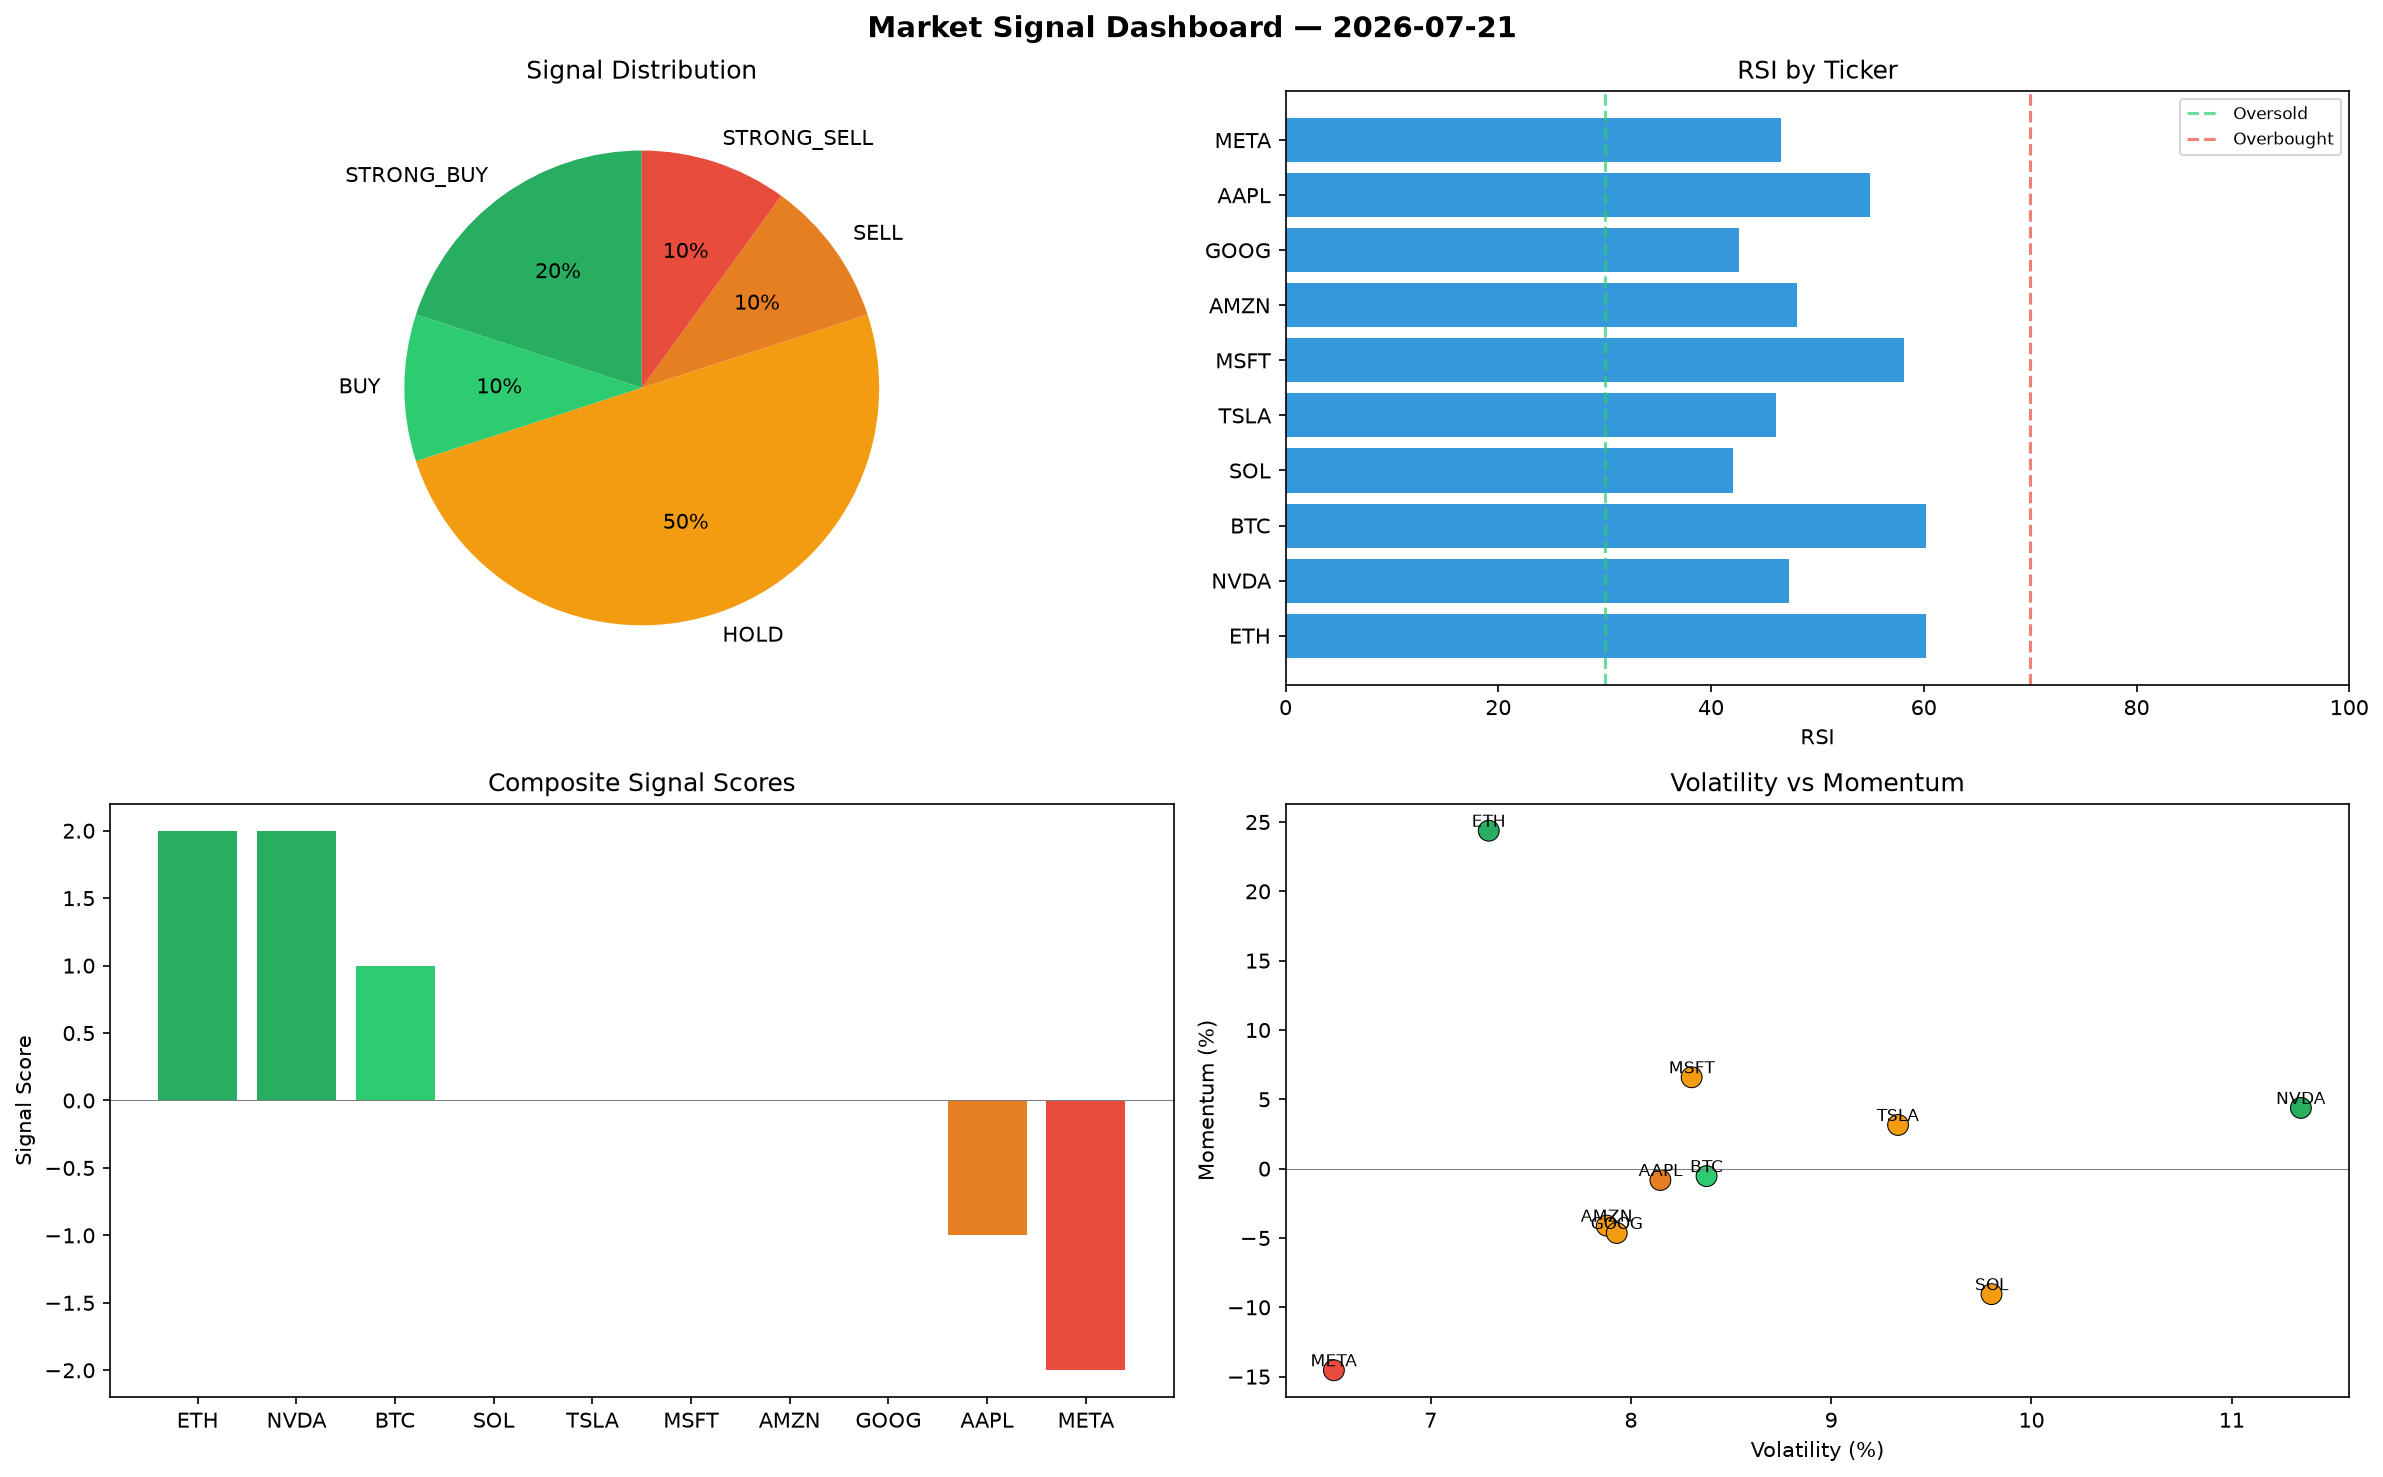
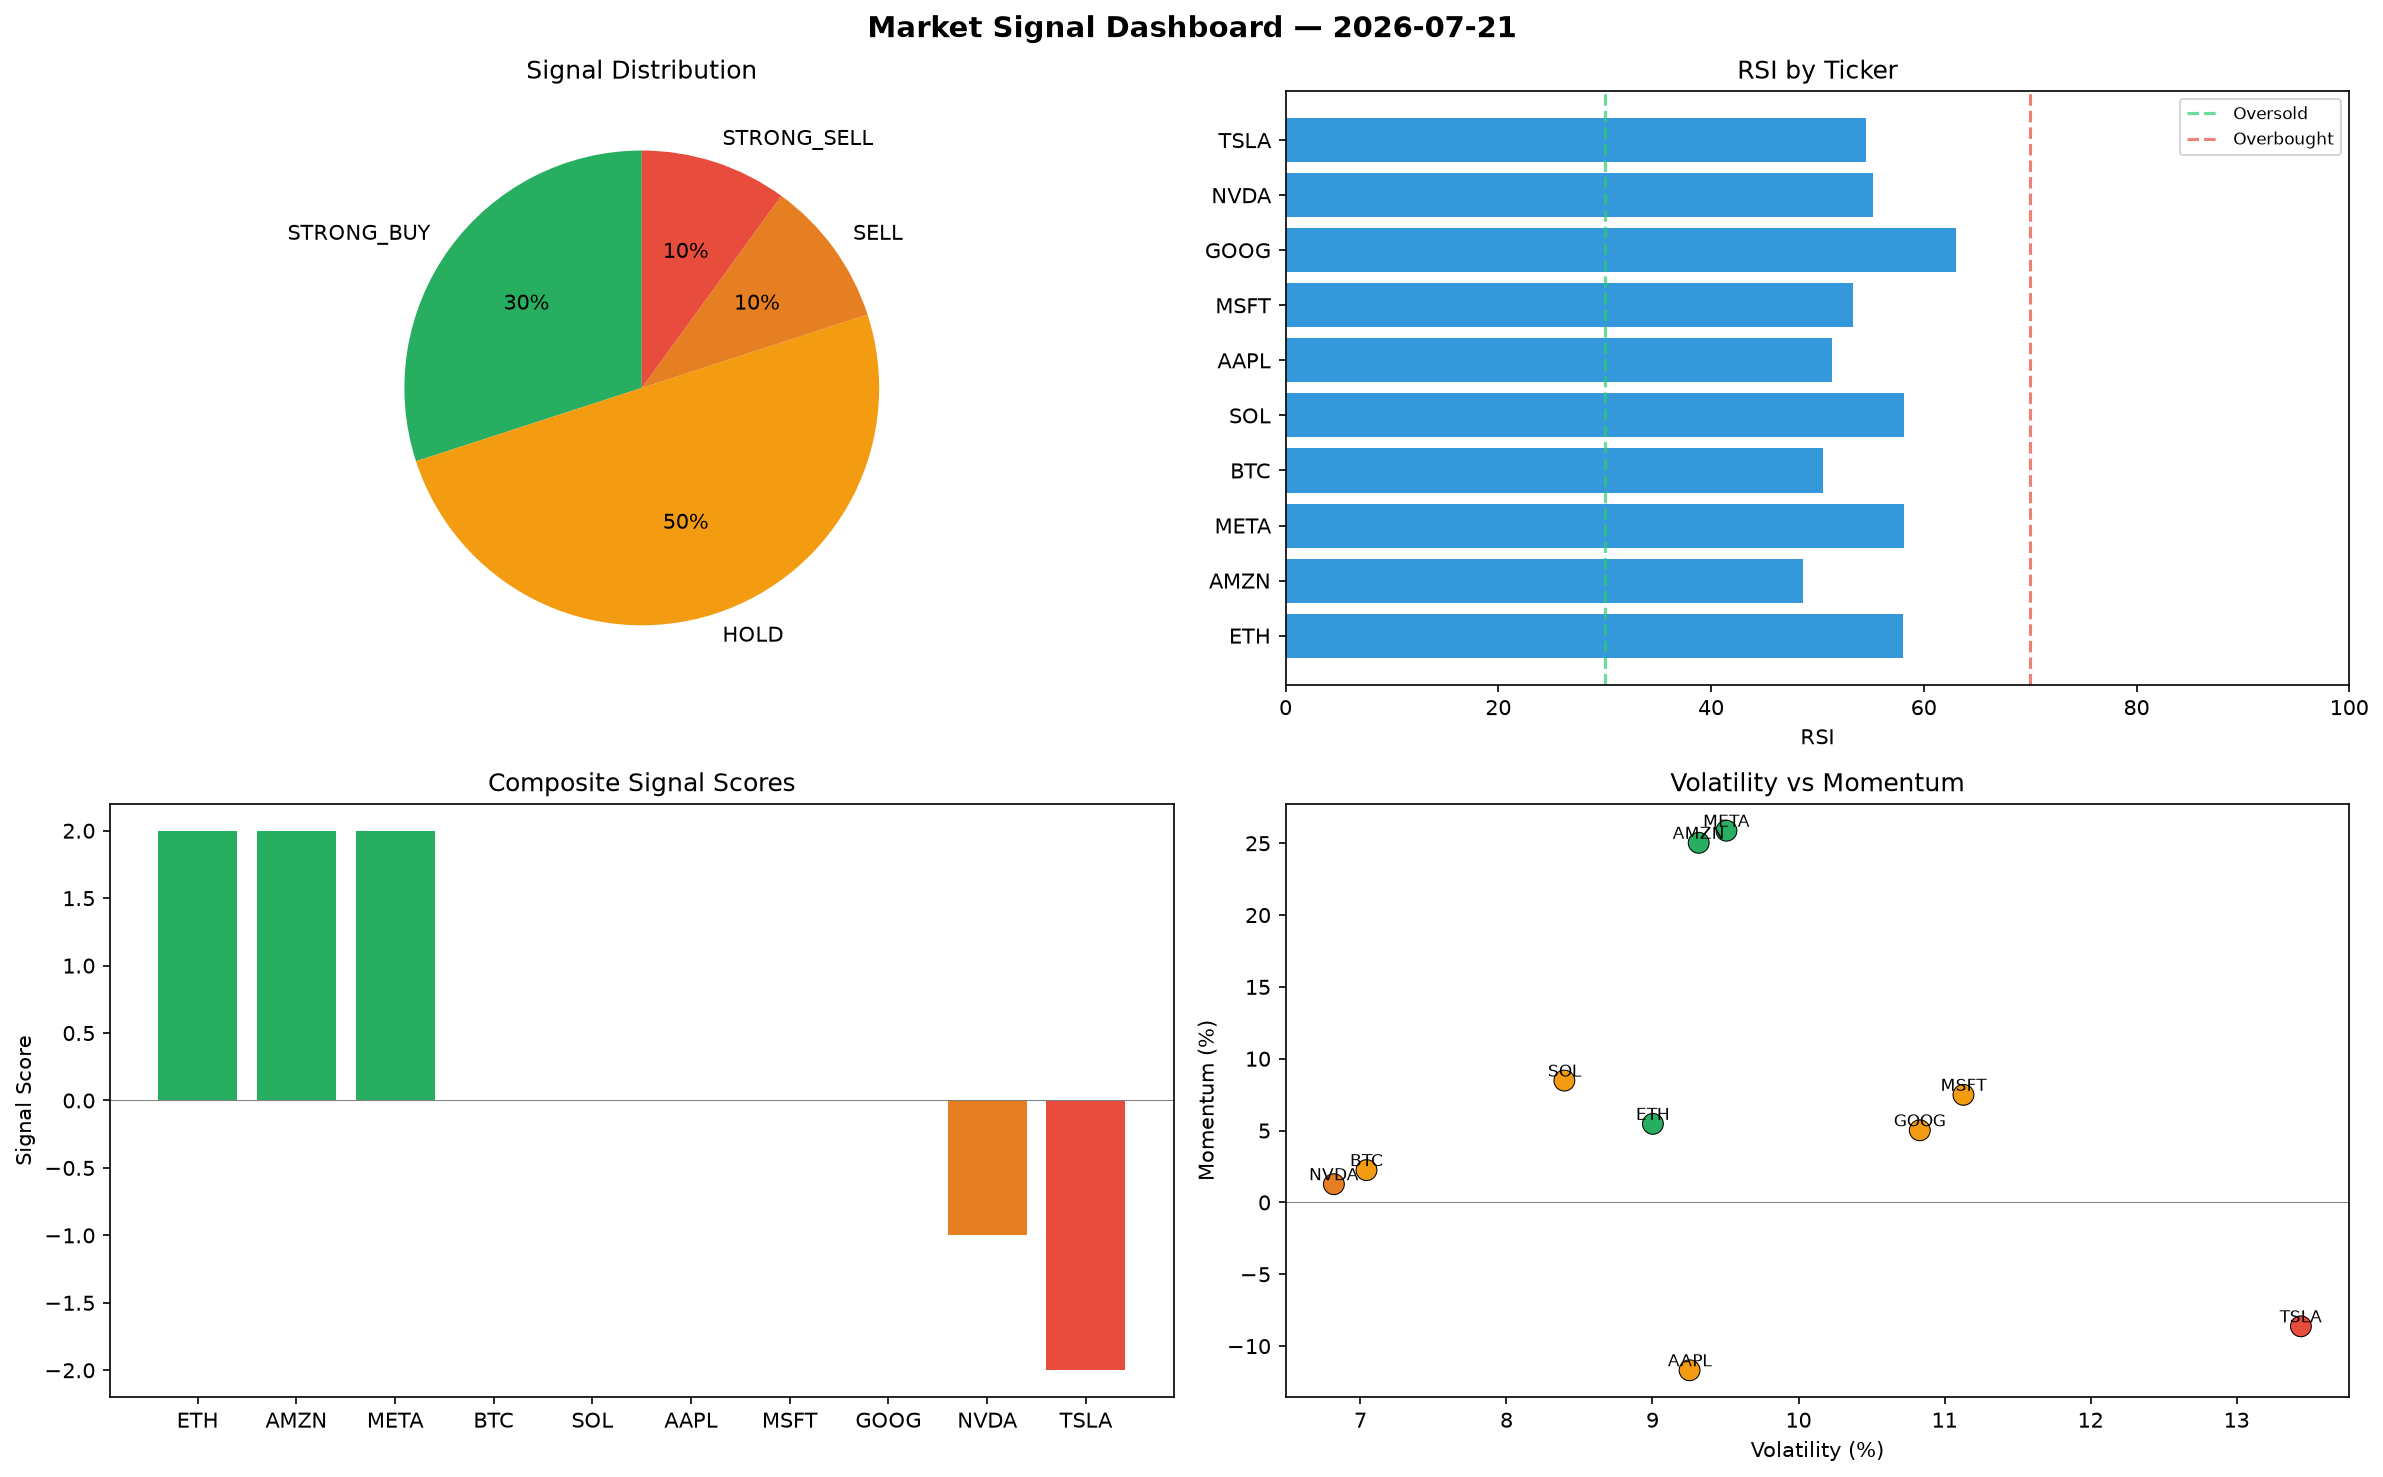
automated-bots: market signals 2026-07-21T21:37

diff --git a/logs/2026-07-21.md b/logs/2026-07-21.md
@@ -1,6 +1,6 @@
 # Market Signal Report — 2026-07-21
 
-**Run ID:** `670987f02e` | **Buy:** 3 | **Sell:** 2 | **Hold:** 5
+**Run ID:** `ee29159b6a` | **Buy:** 3 | **Sell:** 2 | **Hold:** 5
 
 ![Dashboard](2026-07-21_dashboard.png)
 
@@ -8,28 +8,28 @@
 
 | Ticker | Price | Signal | Score | RSI | Momentum | Confidence |
 |--------|-------|--------|-------|-----|----------|------------|
-| ETH | $941.12 | **STRONG_BUY** | 2 | 60.24 | 0.2437 | 0.5 |
-| NVDA | $3770.18 | **STRONG_BUY** | 2 | 47.35 | 0.0438 | 0.5 |
-| BTC | $3714.16 | **BUY** | 1 | 60.2 | -0.0054 | 0.25 |
-| SOL | $3133.28 | **HOLD** | 0 | 42.09 | -0.0905 | 0.0 |
-| TSLA | $833.46 | **HOLD** | 0 | 46.1 | 0.0315 | 0.0 |
-| MSFT | $2854.79 | **HOLD** | 0 | 58.13 | 0.0659 | 0.0 |
-| AMZN | $1441.85 | **HOLD** | 0 | 48.08 | -0.0411 | 0.0 |
-| GOOG | $2984.9 | **HOLD** | 0 | 42.64 | -0.0464 | 0.0 |
-| AAPL | $3370.33 | **SELL** | -1 | 54.96 | -0.0082 | 0.25 |
-| META | $2703.16 | **STRONG_SELL** | -2 | 46.59 | -0.1454 | 0.5 |
+| ETH | $2638.4 | **STRONG_BUY** | 2 | 58.06 | 0.0547 | 0.5 |
+| AMZN | $2374.41 | **STRONG_BUY** | 2 | 48.65 | 0.2503 | 0.5 |
+| META | $1835.83 | **STRONG_BUY** | 2 | 58.15 | 0.2587 | 0.5 |
+| BTC | $2476.84 | **HOLD** | 0 | 50.51 | 0.0225 | 0.0 |
+| SOL | $31.61 | **HOLD** | 0 | 58.16 | 0.0848 | 0.0 |
+| AAPL | $3035.77 | **HOLD** | 0 | 51.34 | -0.1168 | 0.0 |
+| MSFT | $2125.1 | **HOLD** | 0 | 53.36 | 0.0749 | 0.0 |
+| GOOG | $2664.68 | **HOLD** | 0 | 63.04 | 0.0502 | 0.0 |
+| NVDA | $2818.93 | **SELL** | -1 | 55.2 | 0.0127 | 0.25 |
+| TSLA | $748.76 | **STRONG_SELL** | -2 | 54.54 | -0.0862 | 0.5 |
 
 ## Delta vs Yesterday
 
 | Ticker | Today | Yesterday | Price Change | Signal Changed |
 |--------|-------|-----------|-------------|----------------|
-| ETH | STRONG_BUY | STRONG_SELL | 📈 1068.37% | ⚠ YES |
-| NVDA | STRONG_BUY | STRONG_BUY | 📈 35.26% | — |
-| BTC | BUY | HOLD | 📈 405.7% | ⚠ YES |
-| SOL | HOLD | SELL | 📈 2.9% | ⚠ YES |
-| TSLA | HOLD | BUY | 📉 -13.11% | ⚠ YES |
-| MSFT | HOLD | HOLD | 📈 44.44% | — |
-| AMZN | HOLD | HOLD | 📈 20.6% | — |
-| GOOG | HOLD | BUY | 📈 233.02% | ⚠ YES |
-| AAPL | SELL | STRONG_BUY | 📈 72.74% | ⚠ YES |
-| META | STRONG_SELL | BUY | 📈 5.86% | ⚠ YES |
+| ETH | STRONG_BUY | STRONG_SELL | 📈 3175.48% | ⚠ YES |
+| AMZN | STRONG_BUY | HOLD | 📈 98.6% | ⚠ YES |
+| META | STRONG_BUY | BUY | 📉 -28.1% | ⚠ YES |
+| BTC | HOLD | HOLD | 📈 237.23% | — |
+| SOL | HOLD | SELL | 📉 -98.96% | ⚠ YES |
+| AAPL | HOLD | STRONG_BUY | 📈 55.59% | ⚠ YES |
+| MSFT | HOLD | HOLD | 📈 7.52% | — |
+| GOOG | HOLD | BUY | 📈 197.29% | ⚠ YES |
+| NVDA | SELL | STRONG_BUY | 📈 1.13% | ⚠ YES |
+| TSLA | STRONG_SELL | BUY | 📉 -21.94% | ⚠ YES |
